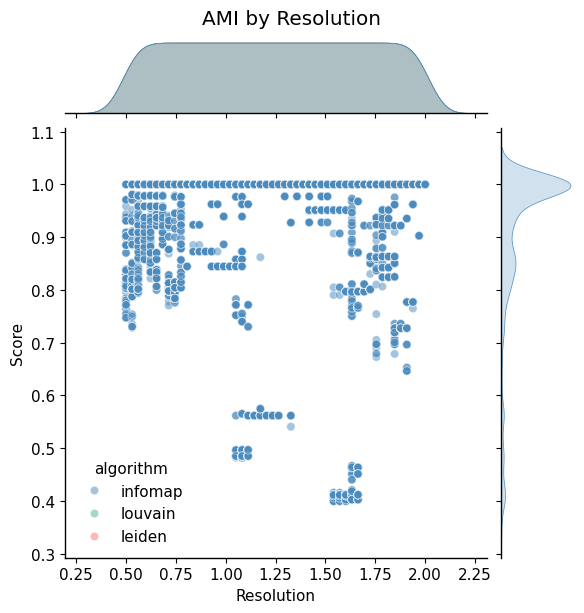
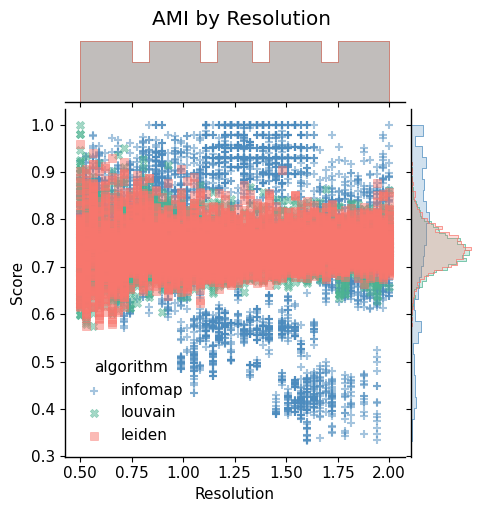
Refactor resolution sensitivity analysis and update community detection algorithms with new plotting features

diff --git a/scripts/03_resolution_sensitivity.py b/scripts/03_resolution_sensitivity.py
@@ -14,7 +14,10 @@ nx.config.warnings_to_ignore.add("cache")
 snakemake: Any
 
 RESOLUTIONS = np.linspace(0.5, 2.0, num=50)
-TRYS = 20
+TRYS = 15
+algorithm_order = ["infomap", "louvain", "leiden"]
+color_map = {"infomap": "#4B8BBE", "louvain": "#4CB391", "leiden": "#F8766D"}
+marker_map = {"infomap": "+", "louvain": "X", "leiden": "s"}
 
 
 def main() -> None:
@@ -53,24 +56,26 @@ def main() -> None:
 			nodes_sorted_communities_labels = []
 
 			for seed in seeds:
-				nodes = list(graph.nodes())
-				random.seed(seed)
-				np.random.seed(seed)
-				random.shuffle(nodes)
-				mapping = {old: new for old, new in zip(graph.nodes(), nodes)}
-				G_shuffled = nx.relabel_nodes(graph, mapping)
+				G_perturbed = graph.copy()
+
+				edge_drop_fraction = 0.05
+				edges = list(G_perturbed.edges())
+				num_to_remove = int(len(edges) * edge_drop_fraction)
+				edges_to_remove = random.sample(edges, num_to_remove)
+
+				G_perturbed.remove_edges_from(edges_to_remove)
 
 				if algorithm == "louvain":
 					communities, _ = comm.louvain_partition(
-						G_shuffled, seed=seed, resolution=resolution
+						G_perturbed, seed=seed, resolution=resolution
 					)
 				elif algorithm == "leiden":
 					communities, _ = comm.leiden_partition(
-						G_shuffled, seed=seed, resolution=resolution
+						G_perturbed, seed=seed, resolution=resolution
 					)
 				elif algorithm == "infomap":
 					communities, _ = comm.infomap_partition(
-						G_shuffled,
+						G_perturbed,
 						seed=seed,
 						resolution=resolution,
 						markov_time=resolution,
@@ -142,20 +147,18 @@ def main() -> None:
 
 	# Plotting general trends in number of communities
 	figsize = snakemake.config["figsizes"]["catplot"]
-	sns.catplot(
-		data=df,
-		x="resolution",
-		y="num_communities",
-		hue="algorithm",
-		hue_order=["infomap", "louvain", "leiden"],
-		palette=["#4B8BBE", "#4CB391", "#F8766D"],
-		kind="strip",
-		native_scale=True,
-		zorder=1,
-		alpha=0.5,
-		height=figsize[1],
-		aspect=figsize[0] / figsize[1],
-	)
+	fig, ax = plt.subplots(figsize=figsize)
+	for algorithm in algorithm_order:
+		algorithm_data = df[df["algorithm"] == algorithm]
+		ax.scatter(
+			algorithm_data["resolution"],
+			algorithm_data["num_communities"],
+			label=algorithm,
+			marker=marker_map[algorithm],
+			color=color_map[algorithm],
+			alpha=0.5,
+			zorder=2,
+		)
 	sns.regplot(
 		data=df,
 		x="resolution",
@@ -164,26 +167,61 @@ def main() -> None:
 		truncate=False,
 		order=2,
 		color=".2",
-		ax=plt.gca(),
+		ax=ax,
 	)
+	ax.legend(title="algorithm")
 	# TODO: Add vertical lines for each algorithm's "best" resolution
-	plt.grid()
-	plt.savefig(snakemake.output[0], bbox_inches="tight")
+	ax.grid(True)
+	fig.savefig(snakemake.output[0], bbox_inches="tight")
 
 	# Plotting scores — create separate plots for AMI and NMI using jointplot
 	for score_type in ["AMI", "NMI"]:
 		# Filter data for just this score type (keep all algorithms!)
 		data_subset = df_scores[df_scores["score_type"] == score_type]
 
-		# Create the jointplot using hue
-		g = sns.jointplot(
+		g = sns.JointGrid(
 			data=data_subset,
 			x="resolution",
 			y="score",
-			hue="algorithm",
-			hue_order=["infomap", "louvain", "leiden"],
-			palette=["#4B8BBE", "#4CB391", "#F8766D"],
-			alpha=0.5,  # Make points transparent so overlapping is visible
+			height=figsize[1],
+			space=0.1,
+		)
+		for algorithm in algorithm_order:
+			algorithm_data = data_subset[data_subset["algorithm"] == algorithm]
+			g.ax_joint.scatter(
+				algorithm_data["resolution"],
+				algorithm_data["score"],
+				label=algorithm,
+				marker=marker_map[algorithm],
+				color=color_map[algorithm],
+				alpha=0.5,
+			)
+			sns.histplot(
+				algorithm_data,
+				x="resolution",
+				ax=g.ax_marg_x,
+				color=color_map[algorithm],
+				alpha=0.25,
+				stat="density",
+				element="step",
+				common_norm=False,
+			)
+			sns.histplot(
+				algorithm_data,
+				y="score",
+				ax=g.ax_marg_y,
+				color=color_map[algorithm],
+				alpha=0.25,
+				stat="density",
+				element="step",
+				common_norm=False,
+			)
+		legend_handles, legend_labels = g.ax_joint.get_legend_handles_labels()
+		label_to_handle = dict(zip(legend_labels, legend_handles))
+		g.ax_joint.legend(
+			[label_to_handle[algorithm] for algorithm in algorithm_order],
+			algorithm_order,
+			title="algorithm",
 		)
 		# TODO: Add vertical lines for each algorithm's "best" resolution
 

diff --git a/scripts/tests/test_cuda.py b/scripts/tests/test_cuda.py
@@ -26,8 +26,11 @@ print(f"Modularity score: {nx.algorithms.community.modularity(G, communities_cpu
 
 # 3. Test Leiden Community Detection (using the 'cugraph' backend)
 start = time.time()
-communities_gpu = nx.algorithms.community.leiden_communities(G, backend="cugraph")
+communities_gpu = nx.algorithms.community.leiden_communities(
+	G, backend="cugraph", random_state=42
+)
 print(f"Leiden GPU Time: {time.time() - start:.4f}s")
 print(f"Number of communities detected: {len(communities_gpu)}")
 print(f"Sizes of first 5 communities: {[len(c) for c in communities_gpu[:5]]}")
 print(f"Modularity score: {nx.algorithms.community.modularity(G, communities_gpu):.4f}")
+
